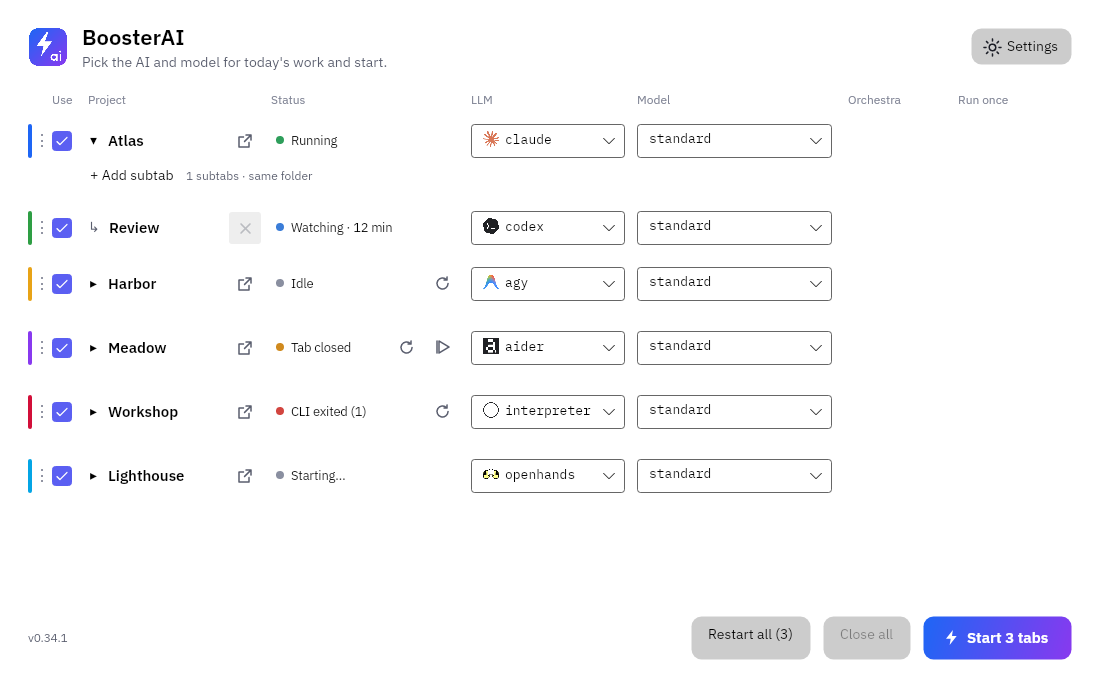
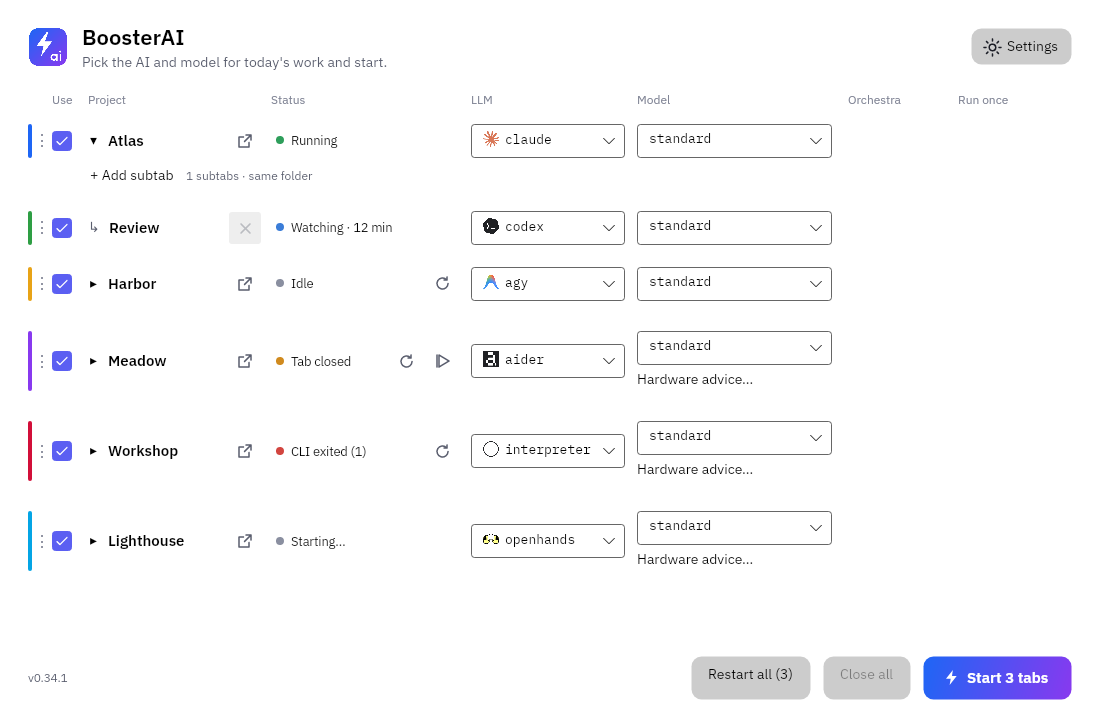
Document and capture local model advice verification

diff --git a/docs/index.html b/docs/index.html
@@ -769,7 +769,7 @@
             <div style="width: 20px;"></div>
           </div>
           <div class="showcase-media-container">
-            <img id="previewImg" class="showcase-media" src="screenshot-dark.png?v=20261109-137" alt="BoosterAI with six AI CLIs selected across example project tabs">
+            <img id="previewImg" class="showcase-media" src="screenshot-dark.png?v=20261109-139" alt="BoosterAI with six AI CLIs selected across example project tabs">
           </div>
         </div>
       </div>
@@ -998,8 +998,8 @@
       };
       img.alt = descriptions[mode] || 'BoosterAI app screenshot';
       setTimeout(() => {
-        if (mode === 'dark') img.src = 'screenshot-dark.png?v=20261109-137';
-        else if (mode === 'light') img.src = 'screenshot.png?v=20261109-137';
+        if (mode === 'dark') img.src = 'screenshot-dark.png?v=20261109-139';
+        else if (mode === 'light') img.src = 'screenshot.png?v=20261109-139';
         else if (mode === 'settings') img.src = 'settings-general.png?v=20261109-137';
         else if (mode === 'appearance') img.src = 'settings-appearance.png?v=20261105';
         else if (mode === 'memory') img.src = 'settings-ram.png?v=20261109-135';

diff --git a/docs/verification/139/README.md b/docs/verification/139/README.md
@@ -1,0 +1,31 @@
+# Local model hardware advice verification (#139)
+
+The implementation source is `f2418db` (following `a4fb558`). Linux verification used .NET SDK 10.0.114 on Ubuntu 24.04, x64. Windows verification and release delivery belong to the integration owner and are recorded separately.
+
+- Targeted classification/probe tests: 31 passed. They cover provider hints without assumed locality, exact tags and registry names, cloud proxies including zero-byte entries, missing hardware/runtime data, RAM boundaries, exact runtime identity, full GPU loading, CPU/split caution without an unsupported speed verdict, malformed NVIDIA output, read-only HTTP endpoints, response bounds, stalled bodies and cancellation.
+- Release build: succeeded with zero warnings/errors.
+- Full Linux suite: 888 passed, zero failed/skipped (31 seconds). The existing test project emits two unrelated analyzer warnings; private build/test logs are retained by the integration owner.
+- Windows, same source revision (integration owner): Release build succeeded with zero warnings/errors; full suite 888 passed (18 seconds). A separate native read-only probe smoke check returned valid positive physical RAM, 16 logical processors and unknown NVIDIA GPU data. No model calls or visible desktop windows were involved.
+- Headless images below use invented projects and **synthetic** hardware/model metadata. They measure neither a real model nor performance. No hardware/server probes run while rendering them. Each screenshot process exited normally; no desktop windows were opened.
+
+The tests use fake HTTP handlers and streams, not a running Ollama server. No model was loaded, downloaded or benchmarked. Real NVIDIA availability/driver compatibility, AMD/Intel VRAM, WSL/container resource limits, externally configured CLI endpoints and other model runtimes remain explicit limitations in the UI and [method documentation](../../DETAILS.md#local-model-hardware-advice).
+
+Images:
+
+- [English: limited CPU RAM](local-model-en-limited.png)
+- [Swedish: limited CPU RAM](local-model-sv-limited.png)
+- [Swedish: already loaded on GPU](local-model-sv-fits.png)
+- [English: remote/cloud proxy](local-model-en-remote.png)
+- [Swedish: unknown location before measurement](local-model-sv-unknown.png)
+
+Render from the repository root after the Release build:
+
+```sh
+src/BoosterAI/bin/Release/net10.0/BoosterAI --screenshot docs/verification/139/local-model-en-limited.png --window local-model --section limited --theme light --config docs/verification/139/neutral-en.json
+src/BoosterAI/bin/Release/net10.0/BoosterAI --screenshot docs/verification/139/local-model-sv-limited.png --window local-model --section limited --theme dark --config docs/verification/139/neutral-sv.json
+src/BoosterAI/bin/Release/net10.0/BoosterAI --screenshot docs/verification/139/local-model-sv-fits.png --window local-model --section fits --theme light --config docs/verification/139/neutral-sv.json
+src/BoosterAI/bin/Release/net10.0/BoosterAI --screenshot docs/verification/139/local-model-en-remote.png --window local-model --section remote --theme dark --config docs/verification/139/neutral-en.json
+src/BoosterAI/bin/Release/net10.0/BoosterAI --screenshot docs/verification/139/local-model-sv-unknown.png --window local-model --theme light --config docs/verification/139/neutral-sv.json
+src/BoosterAI/bin/Release/net10.0/BoosterAI --screenshot docs/screenshot.png --height 720 --theme light --config docs/verification/139/neutral-en.json
+src/BoosterAI/bin/Release/net10.0/BoosterAI --screenshot docs/screenshot-dark.png --height 720 --theme dark --config docs/verification/139/neutral-en.json
+```
